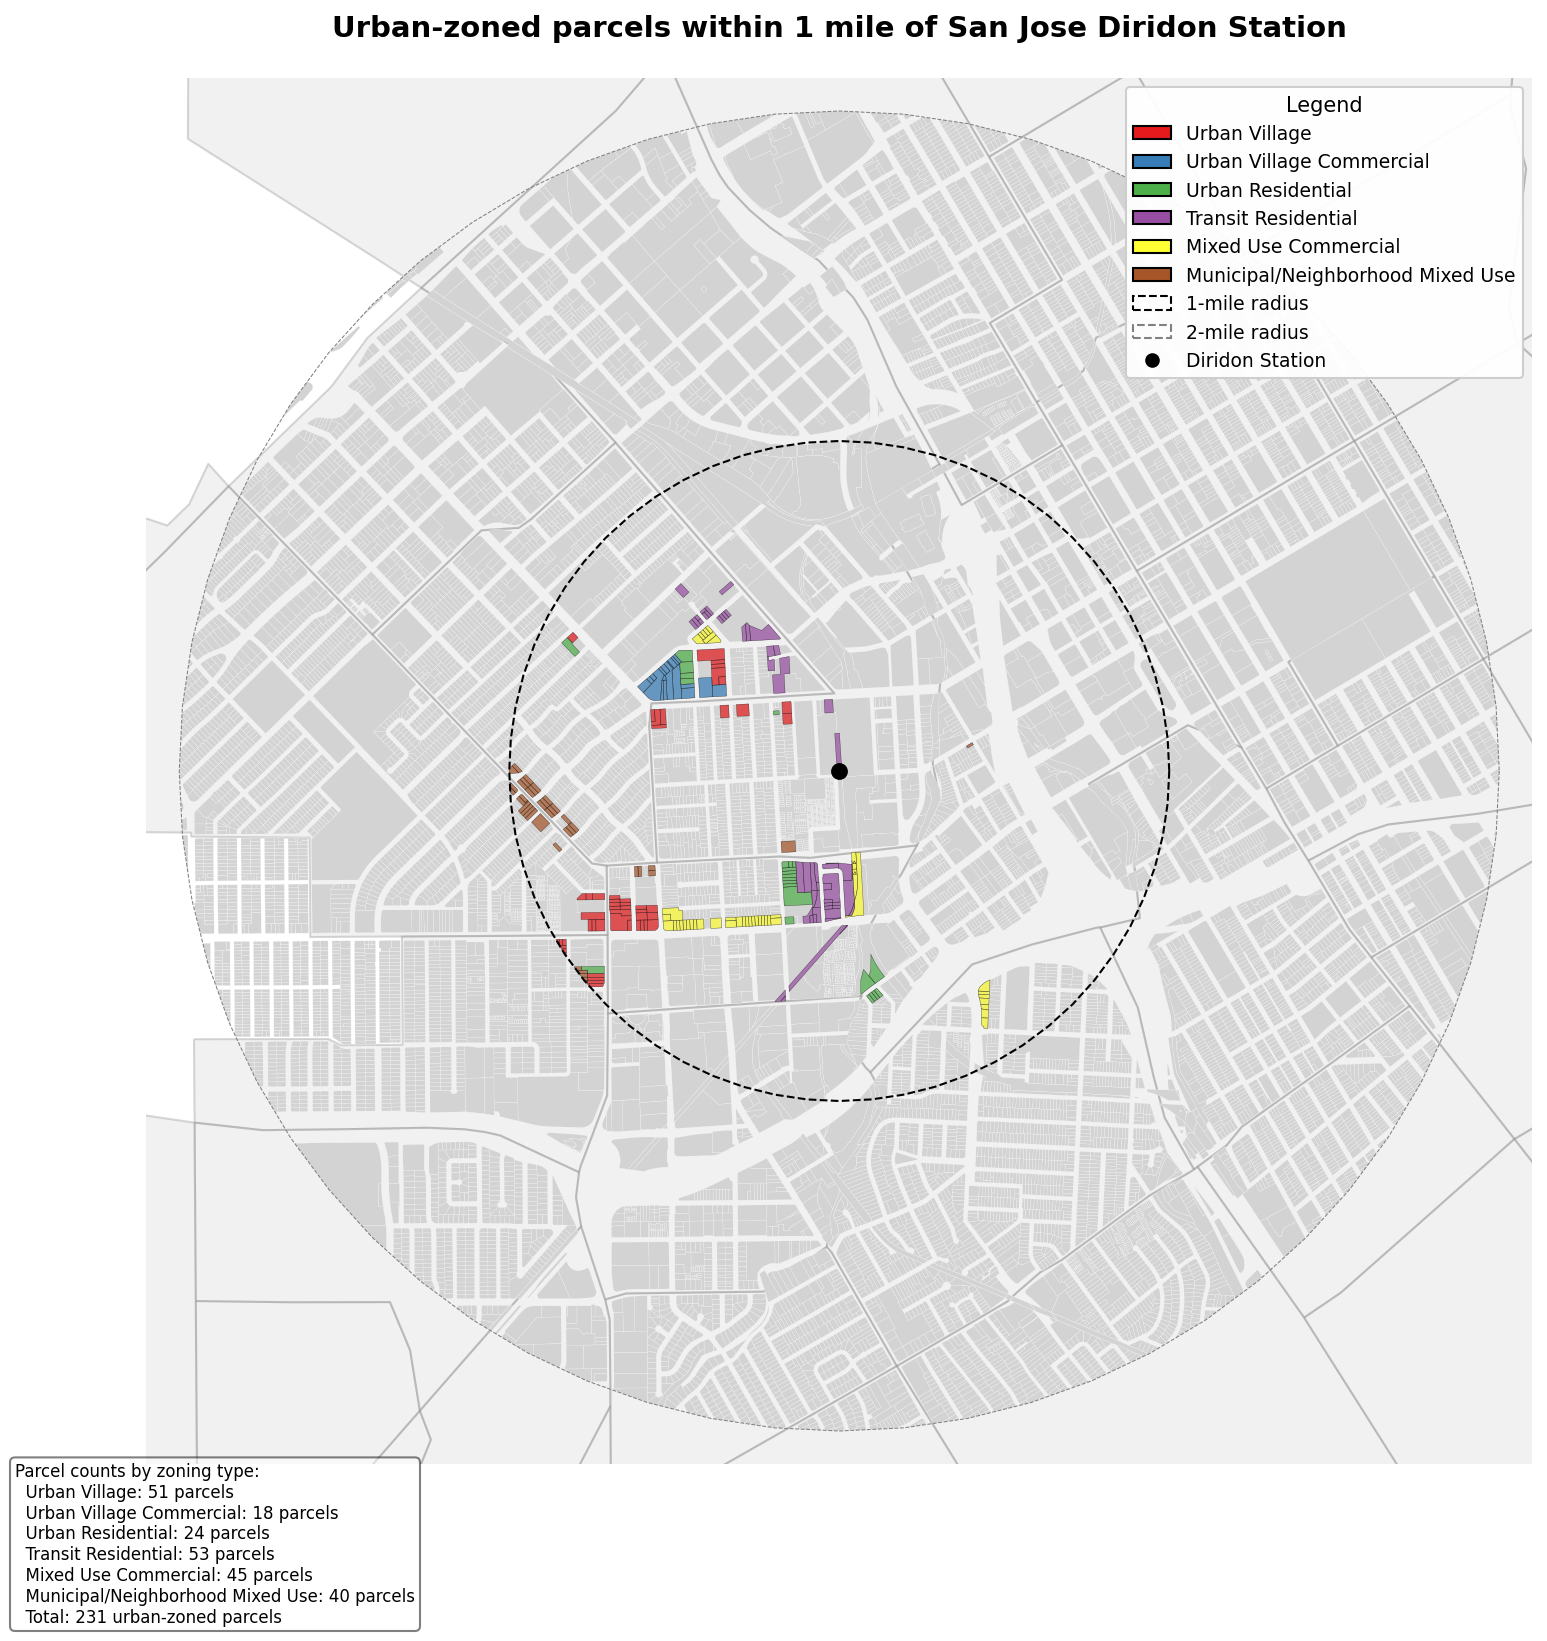
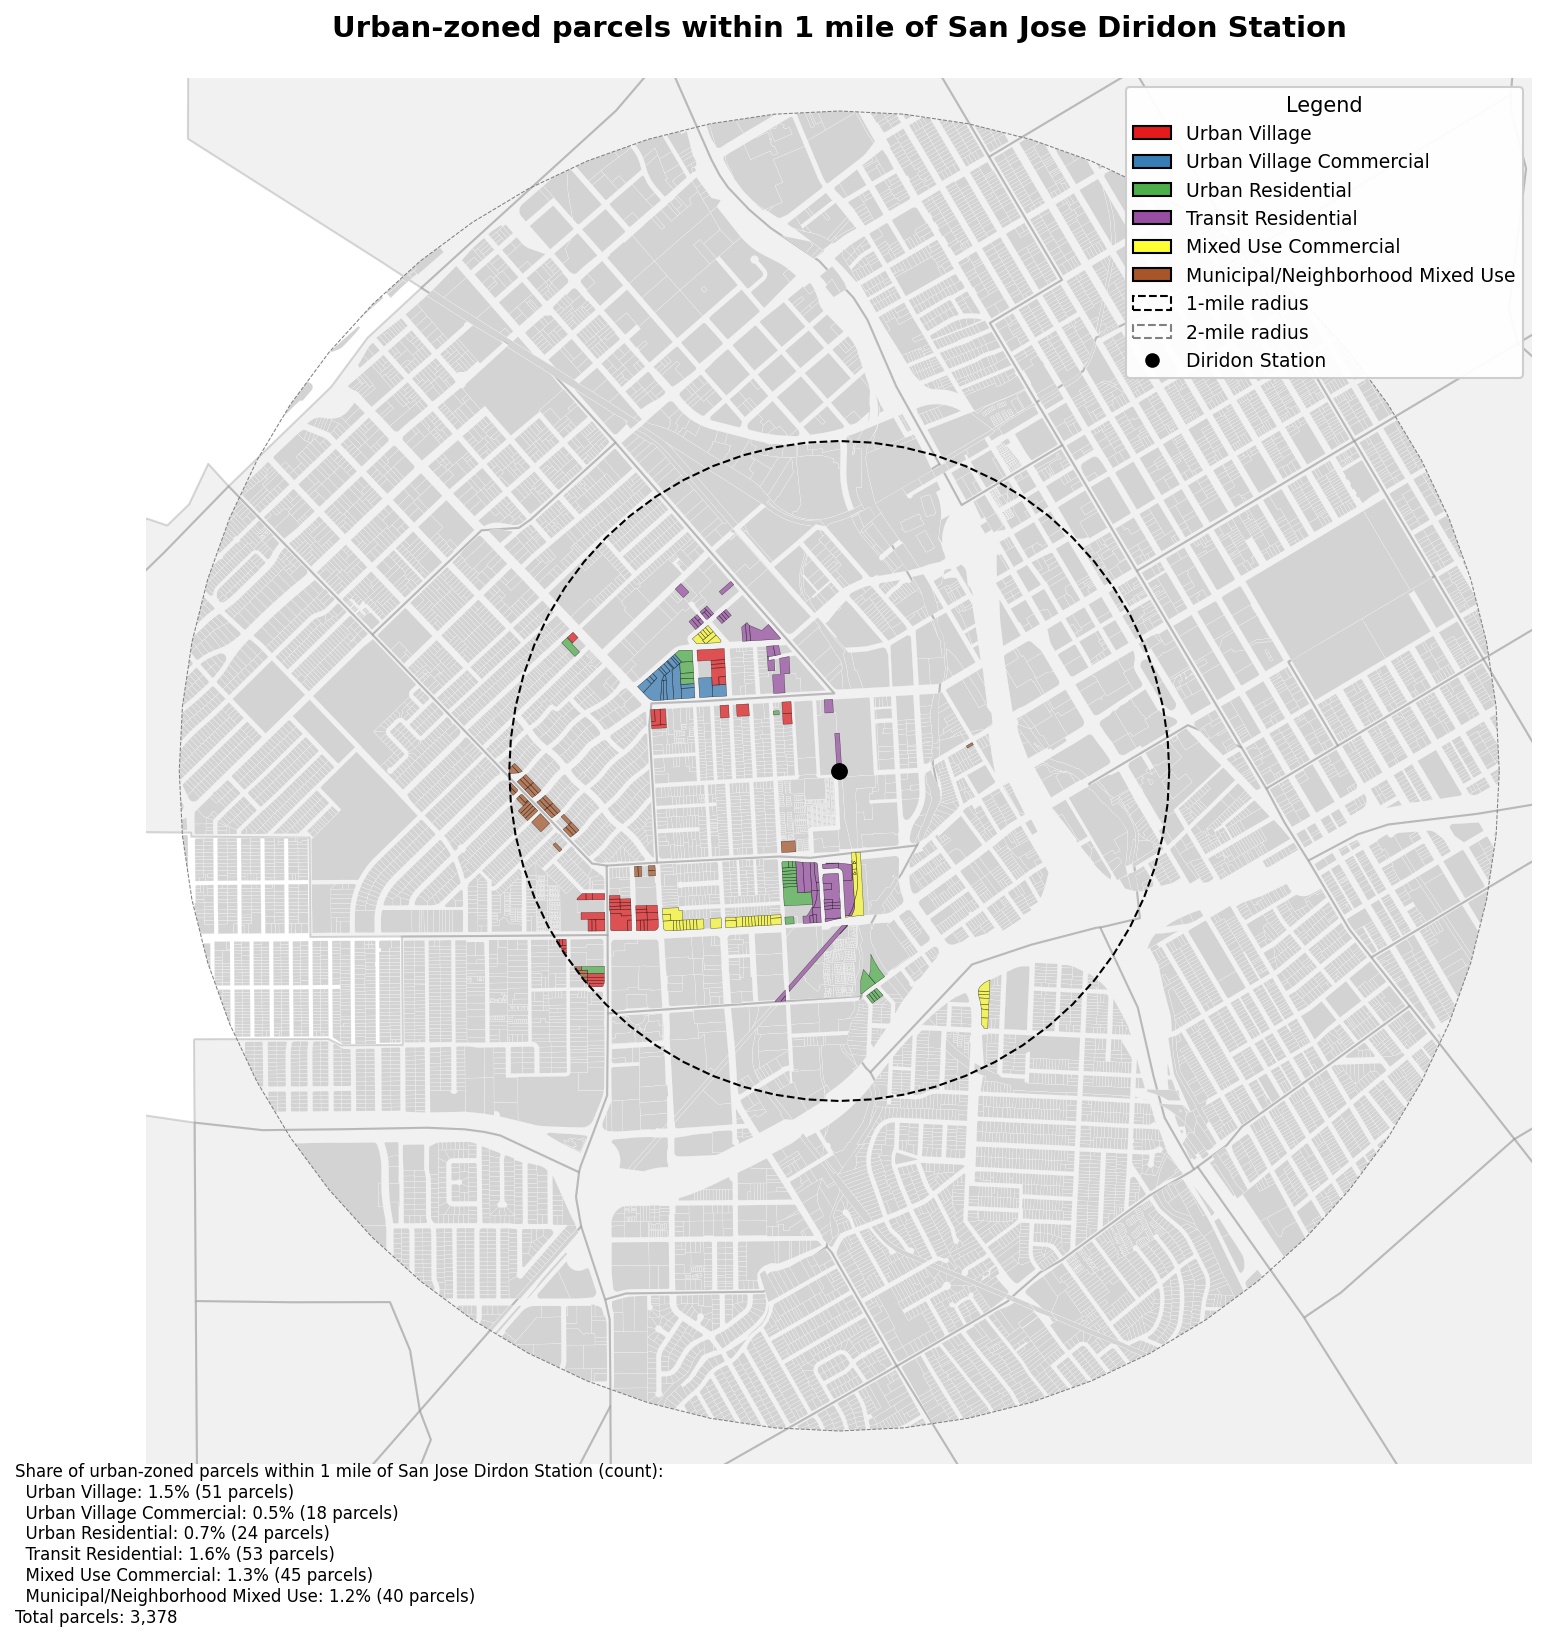
streamline footnotes, remove bounding box, add total and percents

Changed region(s): [[0.0, 0.8702, 0.2793, 0.9945], [0.3103, 0.8702, 0.3723, 0.9013], [0.2172, 0.9634, 0.2793, 0.9945]]

diff --git a/code/diridon_utils.py b/code/diridon_utils.py
@@ -269,20 +269,23 @@ def create_maps(parcels, tracts, output_dir):
         framealpha=0.95
     )
     # Create footnote with parcel counts
-    footnote_lines = ["Parcel counts by zoning type:"]
-    total_parcels = 0
+    total_parcels_within_1mile = len(parcels_within_1mile)
+
+    footnote_lines = ["Share of urban-zoned parcels within 1 mile of San Jose Dirdon Station (count):"]
     for zone_type in urban_zoning:
         count = len(uz_within_1mile[uz_within_1mile["zoning"] == zone_type])
         if count > 0:
-            footnote_lines.append(f"  {zone_type}: {count:,} parcels")
-            total_parcels += count
-    footnote_lines.append(f"  Total: {total_parcels:,} urban-zoned parcels")
-    
+            share = count / total_parcels_within_1mile * 100
+            footnote_lines.append(f"  {zone_type}: {share:.1f}% ({count:,} parcels)")
+
+    # Add total parcels within 1 mile
+    footnote_lines.append(f"Total parcels: {total_parcels_within_1mile:,}")
+
     footnote_text = "\n".join(footnote_lines)
-    fig.text(0.12, 0.02, footnote_text, ha='left', va='bottom', 
-             fontsize=8, 
-             bbox=dict(boxstyle='round', facecolor='white', alpha=0.5))
-    
+    fig.text(
+        0.12, 0.02, footnote_text,
+        ha='left', va='bottom', fontsize=8,
+    )
     ax.axis('off')
     
     # 7. Save the map
